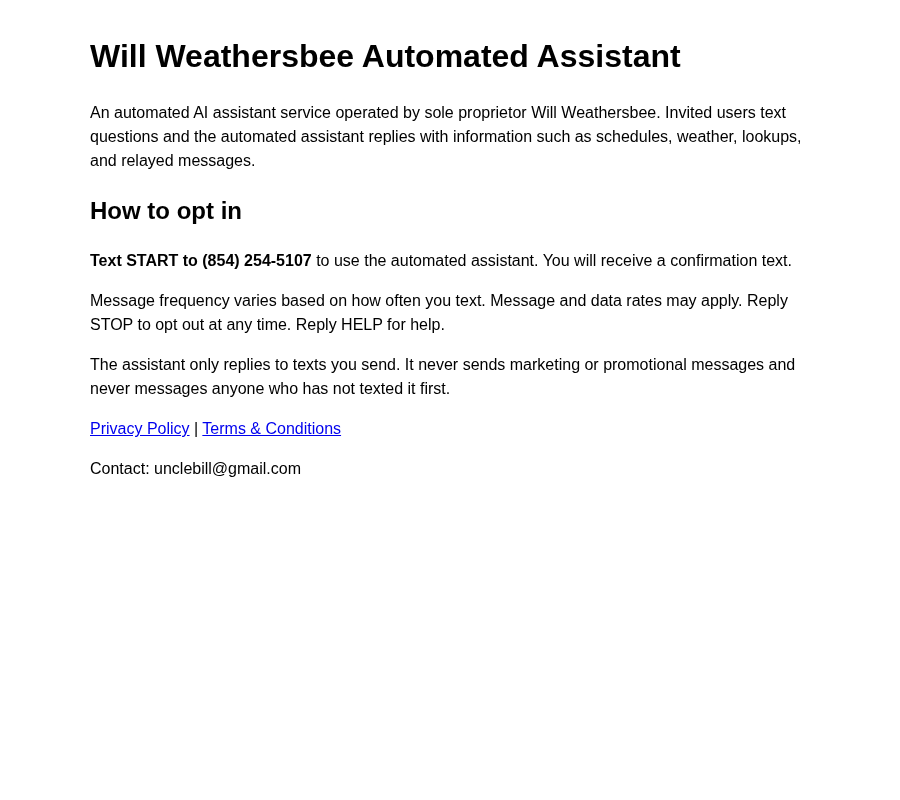
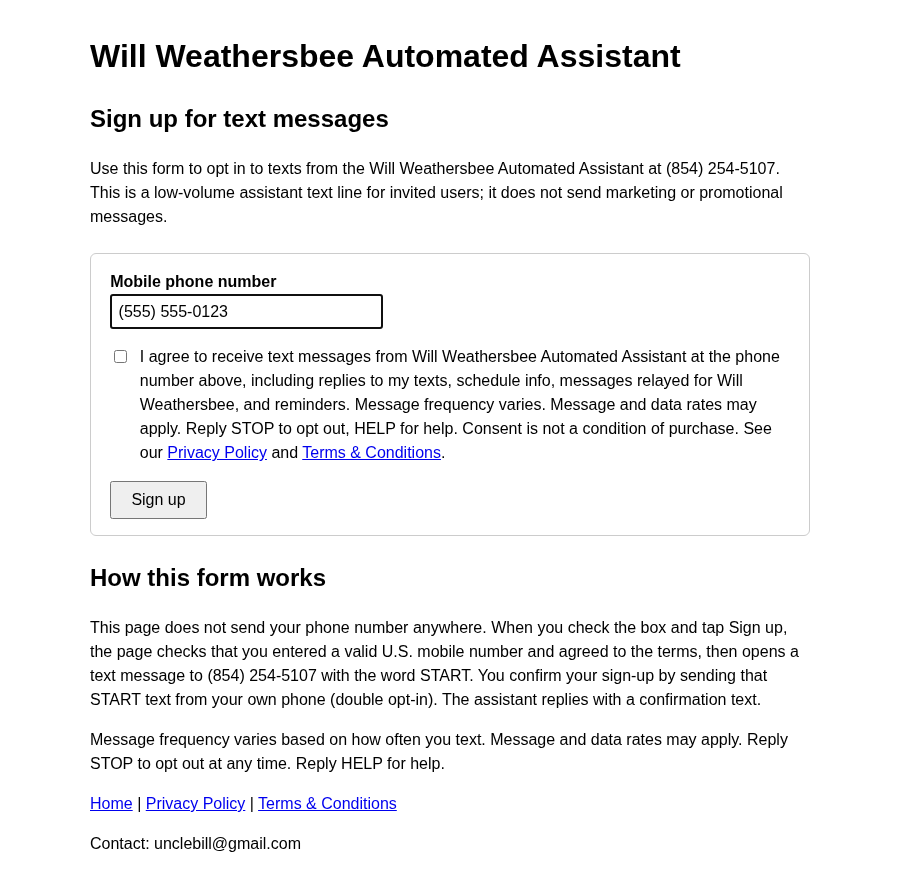
Add web opt-in form with consent checkbox and START double opt-in
- New optin.html: phone field, required unchecked consent checkbox with brand,
  message types, frequency, rates, STOP/HELP, not-a-condition-of-purchase, and
  policy links; submit opens sms:+18542545107 with START (no backend)
- index.html lists all three opt-in paths (web form, text START, in-person script)
- Privacy/terms cover the web form, in-person invite, reminders/relayed messages
- Regenerate optin-screenshot.png; add CHANGELOG.md and RESUBMIT.md (Twilio
  campaign resubmission text for Error 30909)

diff --git a/optin.html b/optin.html
@@ -1,0 +1,42 @@
+<!doctype html><html lang="en"><head><meta charset="utf-8"><meta name="viewport" content="width=device-width,initial-scale=1"><title>Sign Up - Will Weathersbee Automated Assistant - SMS Opt-In</title></head>
+<body style="font-family:sans-serif;max-width:720px;margin:2em auto;padding:0 1em;line-height:1.5">
+<h1>Will Weathersbee Automated Assistant</h1>
+<h2>Sign up for text messages</h2>
+<p>Use this form to opt in to texts from the Will Weathersbee Automated Assistant at (854) 254-5107. This is a low-volume assistant text line for invited users; it does not send marketing or promotional messages.</p>
+<form id="optin-form" novalidate style="border:1px solid #ccc;border-radius:6px;padding:1em 1.2em;margin:1.5em 0">
+<p style="margin-top:0"><label for="phone"><strong>Mobile phone number</strong></label><br>
+<input id="phone" name="phone" type="tel" inputmode="tel" autocomplete="tel" placeholder="(555) 555-5555" required style="font-size:1em;padding:.4em;width:16em;max-width:100%"></p>
+<p style="display:flex;gap:.6em;align-items:flex-start">
+<input id="consent" name="consent" type="checkbox" required style="margin-top:.35em;flex:none">
+<label for="consent">I agree to receive text messages from Will Weathersbee Automated Assistant at the phone number above, including replies to my texts, schedule info, messages relayed for Will Weathersbee, and reminders. Message frequency varies. Message and data rates may apply. Reply STOP to opt out, HELP for help. Consent is not a condition of purchase. See our <a href="privacy.html">Privacy Policy</a> and <a href="terms.html">Terms &amp; Conditions</a>.</label>
+</p>
+<p id="form-error" role="alert" style="color:#b00020;display:none"></p>
+<p style="margin-bottom:0"><button type="submit" style="font-size:1em;padding:.5em 1.2em">Sign up</button></p>
+</form>
+<div id="confirmation" role="status" style="display:none;border:1px solid #2e7d32;border-radius:6px;padding:1em 1.2em;margin:1.5em 0;background:#f1f8f1">
+<p style="margin-top:0"><strong>Almost done: confirm by texting START.</strong></p>
+<p>Your messaging app should now open with a text to (854) 254-5107 that says START. Send that text to confirm your sign-up. You are not opted in until you send START, and you will receive a confirmation text in reply.</p>
+<p style="margin-bottom:0">If your messaging app did not open, <a id="sms-link" href="sms:+18542545107?&amp;body=START">tap here to text START to (854) 254-5107</a>, or text START to (854) 254-5107 from your phone.</p>
+</div>
+<h2>How this form works</h2>
+<p>This page does not send your phone number anywhere. When you check the box and tap Sign up, the page checks that you entered a valid U.S. mobile number and agreed to the terms, then opens a text message to (854) 254-5107 with the word START. You confirm your sign-up by sending that START text from your own phone (double opt-in). The assistant replies with a confirmation text.</p>
+<p>Message frequency varies based on how often you text. Message and data rates may apply. Reply STOP to opt out at any time. Reply HELP for help.</p>
+<p><a href="index.html">Home</a> | <a href="privacy.html">Privacy Policy</a> | <a href="terms.html">Terms &amp; Conditions</a></p>
+<p>Contact: unclebill@gmail.com</p>
+<script>
+document.getElementById('optin-form').addEventListener('submit', function (e) {
+  e.preventDefault();
+  var err = document.getElementById('form-error');
+  var digits = document.getElementById('phone').value.replace(/\D/g, '');
+  if (digits.length === 11 && digits.charAt(0) === '1') digits = digits.slice(1);
+  var msgs = [];
+  if (!/^[2-9]\d{2}[2-9]\d{6}$/.test(digits)) msgs.push('Please enter a valid 10-digit U.S. mobile phone number.');
+  if (!document.getElementById('consent').checked) msgs.push('Please check the box to agree to receive text messages.');
+  if (msgs.length) { err.textContent = msgs.join(' '); err.style.display = 'block'; return; }
+  err.style.display = 'none';
+  document.getElementById('optin-form').style.display = 'none';
+  document.getElementById('confirmation').style.display = 'block';
+  window.location.href = document.getElementById('sms-link').getAttribute('href');
+});
+</script>
+</body></html>

diff --git a/terms.html b/terms.html
@@ -1,14 +1,14 @@
 <!doctype html><html lang="en"><head><meta charset="utf-8"><meta name="viewport" content="width=device-width,initial-scale=1"><title>Terms &amp; Conditions - Will Weathersbee Automated Assistant</title></head>
 <body style="font-family:sans-serif;max-width:760px;margin:2em auto;padding:0 1em;line-height:1.5">
 <h1>Terms &amp; Conditions</h1>
-<p>These Terms &amp; Conditions apply to the Will Weathersbee Automated Assistant SMS program (brand: Will Weathersbee, sole proprietor). Effective October 7, 2026.</p>
+<p>These Terms &amp; Conditions apply to the Will Weathersbee Automated Assistant SMS program (brand: Will Weathersbee, sole proprietor). Effective October 7, 2026; updated October 8, 2026.</p>
 <h2>SMS Terms</h2>
 <ol>
-<li><strong>Program description:</strong> The Will Weathersbee Automated Assistant is an automated AI assistant service. After you opt in, you text questions to (854) 254-5107 and receive automated replies with information such as schedules, weather, lookups, and relayed messages.</li>
-<li><strong>How to opt in:</strong> Text START to (854) 254-5107. You will receive a confirmation message.</li>
+<li><strong>Program description:</strong> The Will Weathersbee Automated Assistant is an automated AI assistant service. After you opt in, you text questions to (854) 254-5107 and receive automated replies with information such as schedules, weather, lookups, and relayed messages, plus reminders you ask for.</li>
+<li><strong>How to opt in:</strong> Text START to (854) 254-5107. You can also use our <a href="optin.html">web sign-up form</a> or accept an in-person invitation from Will Weathersbee; either way, you confirm by texting START to (854) 254-5107. You will receive a confirmation message. Consent is not a condition of purchase.</li>
 <li><strong>How to opt out:</strong> You can cancel the SMS service at any time. Text STOP to (854) 254-5107. After you send STOP, we will send one message confirming that you have been unsubscribed and you will no longer receive messages. To rejoin, text START.</li>
 <li><strong>Help:</strong> If you have trouble with the program, reply HELP or contact unclebill@gmail.com.</li>
-<li><strong>Message frequency:</strong> Message frequency varies based on how often you text the assistant. Messages are only sent in reply to your own texts.</li>
+<li><strong>Message frequency:</strong> Message frequency varies based on how often you text the assistant. Messages are sent only to people who have opted in, and consist of replies to your texts, schedule info, messages relayed for Will Weathersbee, and reminders.</li>
 <li><strong>Costs:</strong> Message and data rates may apply for any messages sent to you from us and to us from you. Contact your wireless provider for details about your plan.</li>
 <li><strong>Carrier liability:</strong> Carriers are not liable for delayed or undelivered messages.</li>
 <li><strong>No marketing:</strong> This program does not send marketing or promotional messages.</li>

diff --git a/index.html b/index.html
@@ -1,11 +1,16 @@
 <!doctype html><html lang="en"><head><meta charset="utf-8"><meta name="viewport" content="width=device-width,initial-scale=1"><title>Will Weathersbee Automated Assistant - SMS Opt-In</title></head>
 <body style="font-family:sans-serif;max-width:720px;margin:2em auto;padding:0 1em;line-height:1.5">
 <h1>Will Weathersbee Automated Assistant</h1>
-<p>An automated AI assistant service operated by sole proprietor Will Weathersbee. Invited users text questions and the automated assistant replies with information such as schedules, weather, lookups, and relayed messages.</p>
+<p>An automated AI assistant service operated by sole proprietor Will Weathersbee. Invited users text questions and the automated assistant replies with information such as schedules, weather, lookups, and relayed messages, and sends reminders users ask for.</p>
 <h2>How to opt in</h2>
-<p><strong>Text START to (854) 254-5107</strong> to use the automated assistant. You will receive a confirmation text.</p>
-<p>Message frequency varies based on how often you text. Message and data rates may apply. Reply STOP to opt out at any time. Reply HELP for help.</p>
-<p>The assistant only replies to texts you send. It never sends marketing or promotional messages and never messages anyone who has not texted it first.</p>
-<p><a href="privacy.html">Privacy Policy</a> | <a href="terms.html">Terms &amp; Conditions</a></p>
+<p>There are three ways to opt in. Every way ends with you texting START to (854) 254-5107 from your own phone.</p>
+<ol>
+<li><strong>Online:</strong> <a href="optin.html">Sign up with the web form</a>. Enter your mobile number, check the consent box, and tap Sign up. Your messaging app opens a text that says START; send it to confirm.</li>
+<li><strong>By text:</strong> <strong>Text START to (854) 254-5107</strong> to use the automated assistant. You will receive a confirmation text.</li>
+<li><strong>In person:</strong> Will Weathersbee may invite you in person by reading this script: &ldquo;Would you like to get texts from Will Weathersbee Automated Assistant at (854) 254-5107? It sends replies to your texts, schedule info, messages relayed for me, and reminders. Message frequency varies. Message and data rates may apply. Reply STOP to opt out, HELP for help. If you agree, text START to (854) 254-5107 to confirm.&rdquo; You are only opted in after you text START.</li>
+</ol>
+<p>Message frequency varies based on how often you text. Message and data rates may apply. Reply STOP to opt out at any time. Reply HELP for help. Consent is not a condition of purchase.</p>
+<p>The assistant never sends marketing or promotional messages and never messages anyone who has not texted it first.</p>
+<p><a href="optin.html">Sign Up</a> | <a href="privacy.html">Privacy Policy</a> | <a href="terms.html">Terms &amp; Conditions</a></p>
 <p>Contact: unclebill@gmail.com</p>
 </body></html>

diff --git a/privacy.html b/privacy.html
@@ -1,11 +1,11 @@
 <!doctype html><html lang="en"><head><meta charset="utf-8"><meta name="viewport" content="width=device-width,initial-scale=1"><title>Privacy Policy - Will Weathersbee Automated Assistant</title></head>
 <body style="font-family:sans-serif;max-width:760px;margin:2em auto;padding:0 1em;line-height:1.5">
 <h1>Privacy Policy</h1>
-<p>This Privacy Policy applies to the Will Weathersbee Automated Assistant SMS program (brand: Will Weathersbee, sole proprietor), an automated AI assistant service that sends text messages from (854) 254-5107. Effective October 7, 2026.</p>
+<p>This Privacy Policy applies to the Will Weathersbee Automated Assistant SMS program (brand: Will Weathersbee, sole proprietor), an automated AI assistant service that sends text messages from (854) 254-5107. Effective October 7, 2026; updated October 8, 2026.</p>
 <h2>Information We Collect</h2>
-<p>When you opt in by texting START to (854) 254-5107, we collect your mobile phone number, your opt-in consent, and the content of the messages you send.</p>
+<p>When you opt in by texting START to (854) 254-5107 (directly, after using our <a href="optin.html">web sign-up form</a>, or after an in-person invitation), we collect your mobile phone number, your opt-in consent, and the content of the messages you send. The web sign-up form does not transmit or store the phone number you type; it only opens a START text message on your phone.</p>
 <h2>How We Use Your Information</h2>
-<p>We use your phone number and messages only to deliver the automated assistant's replies that you request, such as schedules, weather, lookups, and relayed messages, and to honor opt-out and help requests.</p>
+<p>We use your phone number and messages only to deliver the automated assistant's replies that you request, such as schedules, weather, lookups, relayed messages, and reminders, and to honor opt-out and help requests.</p>
 <h2>Sharing of Information</h2>
 <p>We do not sell or share your SMS opt-in data or personal information with third parties for marketing purposes. No mobile information will be shared with third parties or affiliates for marketing or promotional purposes. SMS opt-in data and consent will not be shared with any third parties, except with service providers (such as our SMS carrier provider) solely to deliver messages.</p>
 <h2>Data Retention and Security</h2>

diff --git a/RESUBMIT.md b/RESUBMIT.md
@@ -1,0 +1,58 @@
+# Twilio A2P 10DLC campaign resubmission text
+
+Campaign: CM6542ae991d24abba89dba0381228efa2 (STARTER), number +18542545107 / (854) 254-5107.
+Rejected Oct 8, 2026 with Error 30909 (Message Flow/CTA doesn't show enough about how users consent). Each section below is ready to paste into the matching Twilio field.
+
+## Campaign description
+
+Will Weathersbee Automated Assistant is a low-volume, non-marketing automated AI assistant text line run by sole proprietor Will Weathersbee. A small group of invited family contacts who have opted in text (854) 254-5107. They receive automated replies to their texts (schedule info, weather, lookups), messages relayed for Will Weathersbee, and reminders they ask for. The line never sends marketing or promotional messages and never messages anyone who has not opted in by texting START. Opt-in details: https://unclebill-spec.github.io/sms-policy/
+
+## Message Flow / Call-to-action
+
+```
+End users are invited family contacts of sole proprietor Will Weathersbee. All three opt-in paths end with the user texting START from their own phone to (854) 254-5107.
+
+1) Web form: https://unclebill-spec.github.io/sms-policy/optin.html. User enters their mobile number and checks a required, unchecked-by-default box: "I agree to receive text messages from Will Weathersbee Automated Assistant at the phone number above, including replies to my texts, schedule info, messages relayed for Will Weathersbee, and reminders. Message frequency varies. Message and data rates may apply. Reply STOP to opt out, HELP for help. Consent is not a condition of purchase. See our Privacy Policy and Terms & Conditions." On submit, the page opens a text to (854) 254-5107 with the body START; the user sends it to confirm (double opt-in). Screenshot: https://unclebill-spec.github.io/sms-policy/optin-screenshot.png
+
+2) In person: Will Weathersbee reads: "Would you like to get texts from Will Weathersbee Automated Assistant at (854) 254-5107? It sends replies to your texts, schedule info, messages relayed for me, and reminders. Message frequency varies. Message and data rates may apply. Reply STOP to opt out, HELP for help. If you agree, text START to (854) 254-5107 to confirm." The user is opted in only after texting START.
+
+3) Text START to (854) 254-5107, as published at https://unclebill-spec.github.io/sms-policy/.
+
+After START, the user receives: "Will Weathersbee Automated Assistant: You're opted in to replies to your texts, schedule info, messages relayed for Will Weathersbee, and reminders. Msg frequency varies. Msg & data rates may apply. Reply HELP for help, STOP to opt out."
+
+Privacy: https://unclebill-spec.github.io/sms-policy/privacy.html
+Terms: https://unclebill-spec.github.io/sms-policy/terms.html
+```
+
+(1,819 characters, under Twilio's 2,048 limit.)
+
+## Opt-in confirmation message
+
+Will Weathersbee Automated Assistant: You're opted in to replies to your texts, schedule info, messages relayed for Will Weathersbee, and reminders. Msg frequency varies. Msg & data rates may apply. Reply HELP for help, STOP to opt out.
+
+## HELP reply
+
+Will Weathersbee Automated Assistant: For help, email unclebill@gmail.com or visit https://unclebill-spec.github.io/sms-policy/. Msg frequency varies. Msg & data rates may apply. Reply STOP to opt out.
+
+## STOP (opt-out) reply
+
+Will Weathersbee Automated Assistant: You are unsubscribed and will receive no further messages. Reply START to rejoin.
+
+## Sample message 1
+
+Will Weathersbee Automated Assistant: Tomorrow's schedule: dentist at 9:30 AM, then soccer practice at 5:00 PM at Riverside Park. Reply STOP to opt out.
+
+## Sample message 2
+
+Will Weathersbee Automated Assistant: Message from Will Weathersbee: "Running 15 minutes late, I'll pick you up at 6:15." Reply HELP for help, STOP to opt out.
+
+## Keywords
+
+- Opt-in keywords: START, UNSTOP, YES
+- Opt-out keywords: STOP, STOPALL, UNSUBSCRIBE, CANCEL, END, QUIT, OPTOUT, REVOKE
+- Help keywords: HELP, INFO
+
+## Other campaign settings
+
+- Embedded links: Yes (HELP reply links to the policy site). Embedded phone numbers: No. Age-gated content: No. Direct lending: No.
+- Opt-in, opt-out, and help messages above should match the Advanced Opt-Out replies configured on the Messaging Service, so the texts users actually get match what is submitted.

diff --git a/CHANGELOG.md b/CHANGELOG.md
@@ -1,0 +1,11 @@
+# Changelog
+
+## 2026-10-08
+- Added `optin.html`: web sign-up form with a phone number field and a required, unchecked-by-default consent checkbox with full SMS disclosures. Submitting it opens a START text to (854) 254-5107 so the user confirms by text (double opt-in). No backend; the number is never transmitted.
+- `index.html` now lists all three opt-in paths (web form, texting START, in-person script) and links to the form.
+- Privacy policy and terms updated to cover the web form, the in-person invitation, and reminders/relayed messages.
+- Regenerated `optin-screenshot.png` to show the new form and its disclosures.
+- Added `RESUBMIT.md` with paste-ready Twilio A2P 10DLC campaign text after the Error 30909 rejection.
+
+## 2026-10-07
+- Initial SMS privacy policy, terms, opt-in page, and opt-in screenshot for the A2P 10DLC campaign.
